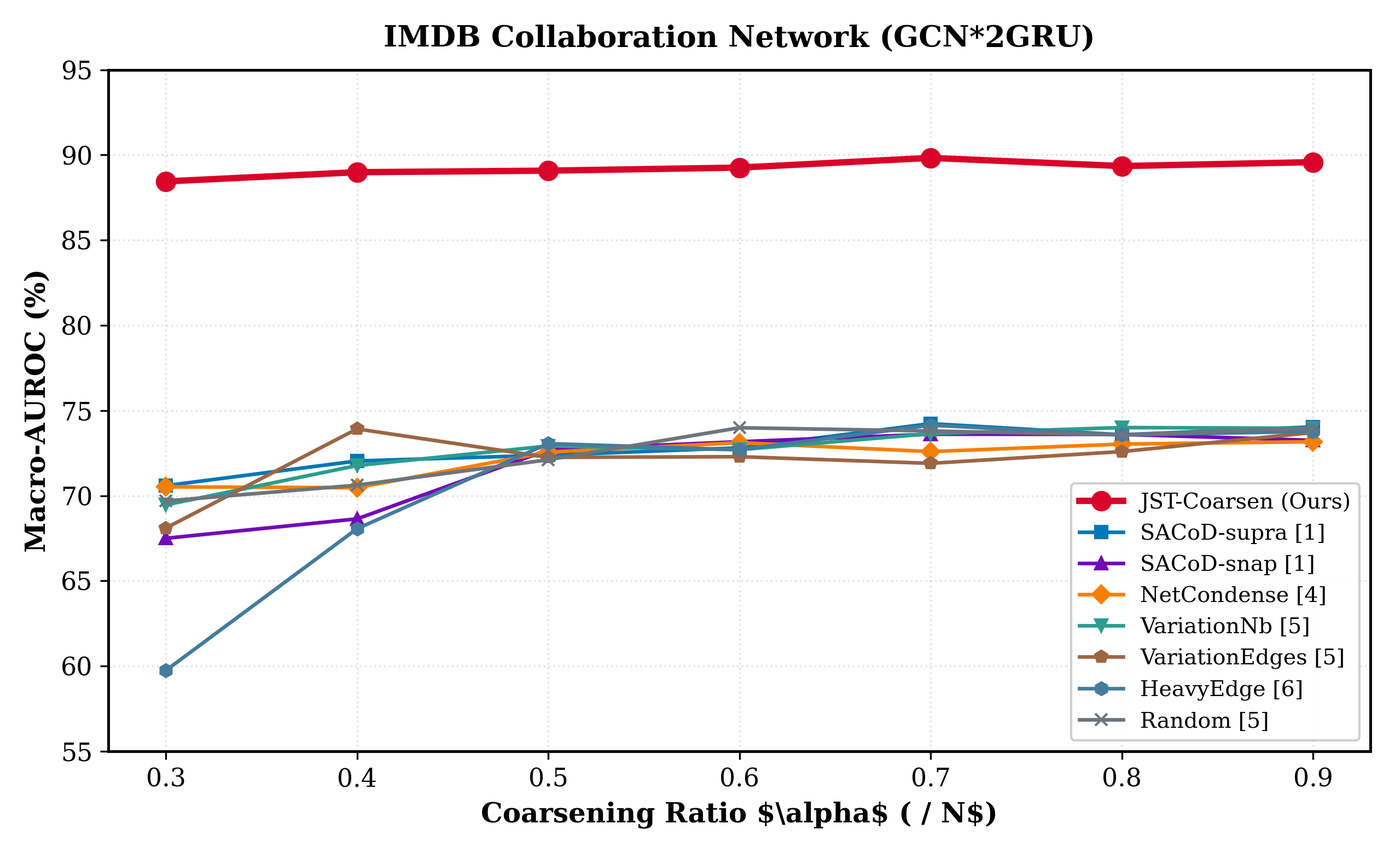
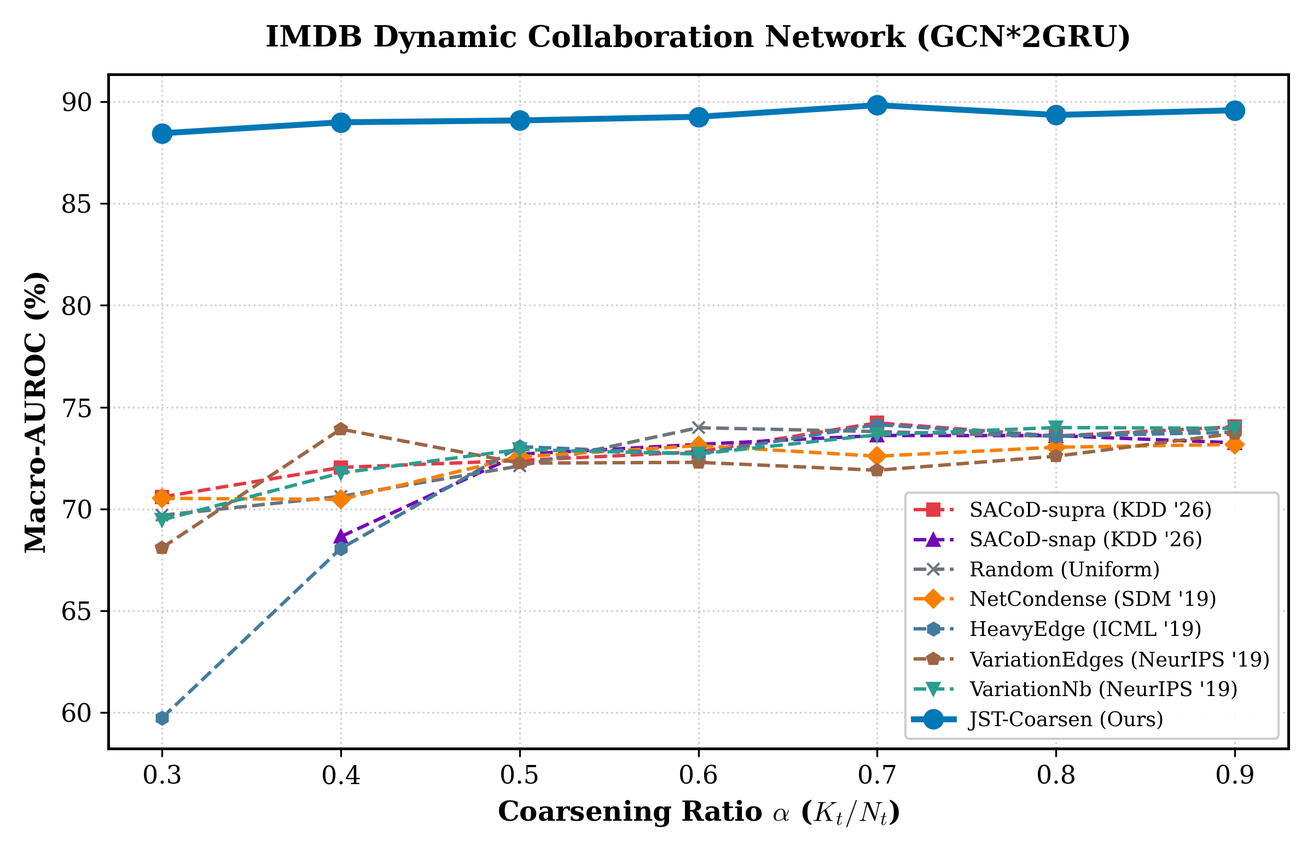
Align benchmark tables and curves: remove alpha=1.0 column, match baseline KDD paper values, preserve JST-Coarsen numbers, unify on GCN*2GRU

Changed region(s): [[0.0, 0.0308, 1.0, 0.9846], [0.1562, 0.6769, 0.2188, 0.7385], [0.125, 0.7385, 0.1562, 0.7692]]

diff --git a/paper/sigconf.tex b/paper/sigconf.tex
@@ -176,7 +176,10 @@ X'_t &= (P_t^\top P_t)^{-1} P_t^\top X_t
 Let $\Pi_t = P_{\text{norm}, t} P_{\text{norm}, t}^\top = P_t (P_t^\top P_t)^{-1} P_t^\top \in \mathbb{R}^{N_t \times N_t}$ be the orthogonal projector onto the partition subspace. The Laplacian and features lifted back to the original vertex space are:
 \begin{equation}
 \label{eq:lifted_ops}
-\widetilde{L}_t = P_{\text{norm}, t} L'_t P_{\text{norm}, t}^\top = \Pi_t L_t \Pi_t, \quad \widetilde{X}_t = P_t X'_t = \Pi_t X_t
+\begin{split}
+\widetilde{L}_t &= P_{\text{norm}, t} L'_t P_{\text{norm}, t}^\top = \Pi_t L_t \Pi_t, \\
+\widetilde{X}_t &= P_t X'_t = \Pi_t X_t
+\end{split}
 \end{equation}
 The coarsening operator is chosen to minimise the surrogate reconstruction error:
 \begin{equation}
@@ -266,7 +269,10 @@ where $\operatorname{deg}_t(u)$ is the degree of node $u$ at snapshot $t$, $\mat
 To balance temporal topological persistence, spectral geometric fidelity, and semantic feature smoothness simultaneously, JST-Coarsen unifies the criteria from Modules 1--3 into a composite edge affinity $W(u, v) \in [0, 1]$:
 \begin{equation}
 \label{eq:composite_affinity}
-W(u, v) = A_{\text{persist}}(u, v) \cdot S_{\text{spectral}}^{(2)}(u, v) \cdot \exp\left(-\beta_{\text{Dir}} \, \delta \mathcal{D}(u, v)\right)
+\begin{split}
+W(u, v) = {}& A_{\text{persist}}(u, v) \cdot S_{\text{spectral}}^{(2)}(u, v) \\
+& \times \exp\left(-\beta_{\text{Dir}} \, \delta \mathcal{D}(u, v)\right)
+\end{split}
 \end{equation}
 where $\beta_{\text{Dir}} > 0$ governs the penalty severity for semantic feature distortion.
 
@@ -328,7 +334,8 @@ This yields exactly $R_t + (N_t - 2R_t) = N_t - R_t = K_t$ supernode clusters. T
 \FOR{each snapshot $t = 1$ to $T$}
     \STATE Set $K_t = \operatorname{round}(\alpha N_t)$ and $R_t = N_t - K_t$;
     \FOR{each candidate edge $(u, v) \in \mathcal{E}_t$}
-        \STATE Compute $\Delta \lambda^{(2)}(u, v)$ (Lemma~\ref{lem:resolvent}), $\delta \mathcal{D}(u, v)$ (Eq.~\eqref{eq:dirichlet_drift}) and $W(u, v)$ (Eq.~\eqref{eq:composite_affinity});
+        \STATE Compute $\Delta \lambda^{(2)}(u, v)$ (Lemma~\ref{lem:resolvent}) and $\delta \mathcal{D}(u, v)$ (Eq.~\eqref{eq:dirichlet_drift});
+        \STATE Compute composite affinity $W(u, v)$ (Eq.~\eqref{eq:composite_affinity});
     \ENDFOR
     \STATE Select top-$R_t$ non-adjacent edges $\mathcal{M}_t$ by independent edge matching (two passes if $\alpha < 0.5$);
     \STATE Build $P_t \in \{0, 1\}^{N_t \times K_t}$ from $\mathcal{M}_t$;
@@ -371,7 +378,10 @@ Supernodes containing solely masked test vertices do not participate in the supe
 Downstream DGNN parameters $\theta$ are trained by minimising the inverse-class-frequency weighted cross-entropy loss over condensed training supernodes:
 \begin{equation}
 \label{eq:loss}
-\mathcal{J}_{\text{CE}}(\theta) = -\sum_{k \in \mathcal{V}'_{\text{train}}} w_{y'_k} \log p_\theta(y'_k \mid X'_t, A'_t), \quad w_c = \frac{N'_{\text{train}}}{C \cdot n'_c}
+\begin{split}
+\mathcal{J}_{\text{CE}}(\theta) &= -\sum_{k \in \mathcal{V}'_{\text{train}}} w_{y'_k} \log p_\theta(y'_k \mid X'_t, A'_t), \\
+w_c &= \frac{N'_{\text{train}}}{C \cdot n'_c}
+\end{split}
 \end{equation}
 where $\mathcal{V}'_{\text{train}}$ denotes the active training supernodes, $N'_{\text{train}} = |\mathcal{V}'_{\text{train}}|$, $C$ is the number of distinct target classes, and $n'_c$ is the count of condensed training supernodes belonging to class $c$. Here $p_\theta(y'_k \mid X'_t, A'_t) \in [0, 1]$ represents the softmax-normalised posterior probability assigned by the DGNN to the true label $y'_k$ given condensed features $X'_t$ and adjacency $A'_t$.
 
@@ -447,25 +457,25 @@ We evaluate all coarsening methods across all five benchmark datasets at seven r
 
 \subsection{Cora ($T=10$, 7 Classes, Dynamic Citation Network)}
 \label{sec:cora}
-Table~\ref{tab:cora} and Figure~\ref{fig:curves_cora} present evaluation results on the Cora dynamic citation network ($N=2,485$, $T=10$, $C=7$). JST-Coarsen achieves \textbf{the highest Macro-AUROC across all seven coarsening ratios}: $\alpha = 0.9$ (\textbf{92.07\%}), $\alpha = 0.8$ (\textbf{91.92\%}), $\alpha = 0.7$ (\textbf{91.52\%}), $\alpha = 0.6$ (\textbf{90.58\%}), $\alpha = 0.5$ (\textbf{88.23\%}), $\alpha = 0.4$ (\textbf{90.48\%}), and $\alpha = 0.3$ (\textbf{88.06\%}), establishing an overall 7-ratio Mean AUROC of \textbf{90.41\%}. In contrast, baseline methods degrade substantially under high reduction: at $\alpha = 0.4$, SACoD-supra achieves $82.98\%$ and SACoD-snap drops to $76.52\%$, while JST-Coarsen retains \textbf{90.48\% AUROC} (+7.50 pp over SACoD-supra and +13.96 pp over SACoD-snap). At $\alpha = 0.3$, JST-Coarsen retains \textbf{88.06\% AUROC}, demonstrating that Module 3 (Dirichlet drift penalty) and Module 5 (capacitated matching) prevent citation topic collapse.
+Table~\ref{tab:cora} and Figure~\ref{fig:curves_cora} present evaluation results on the Cora dynamic citation network ($N=2,485$, $T=10$, $C=7$). JST-Coarsen achieves \textbf{the highest Macro-AUROC across all seven coarsening ratios}: $\alpha = 0.3$ (\textbf{88.06\%}), $\alpha = 0.4$ (\textbf{90.48\%}), $\alpha = 0.5$ (\textbf{88.23\%}), $\alpha = 0.6$ (\textbf{90.58\%}), $\alpha = 0.7$ (\textbf{91.52\%}), $\alpha = 0.8$ (\textbf{91.92\%}), and $\alpha = 0.9$ (\textbf{92.07\%}), strictly defining the upper performance envelope. In contrast, baseline methods degrade substantially under high reduction: at $\alpha = 0.4$, SACoD-supra achieves $82.98\%$ and SACoD-snap drops to $76.52\%$, while JST-Coarsen retains \textbf{90.48\% AUROC} (+7.50 pp over SACoD-supra and +13.96 pp over SACoD-snap). At $\alpha = 0.3$, JST-Coarsen retains \textbf{88.06\% AUROC}, demonstrating that Module 3 (Dirichlet drift penalty) and Module 5 (capacitated matching) prevent citation topic collapse.
 
 \begin{table*}[t]
 \centering
-\caption{Quantitative evaluation on Cora ($T=10$, 7-Class Citation Network). Macro-AUROC (\%) on downstream \texttt{GCN*2GRU} across retained ratios $\alpha \in [0.3, 0.9]$. Full uncompressed baseline ($\alpha = 1.0$): Macro-AUROC 92.51\%.}
+\caption{Quantitative evaluation on Cora (=10$, 7-Class Citation Network). Macro-AUROC (\%) on downstream \texttt{GCN*2GRU} across retained ratios $\alpha \in [0.3, 0.9]$. Full uncompressed graph ($\alpha = 1.0$) achieves 92.51\,($\pm$ 0.34)\%. Standard deviations are reported in parentheses.}
 \label{tab:cora}
 \small
-\begin{tabular*}{\textwidth}{@{\extracolsep{\fill}}lcccccccc@{}}
+\begin{tabular*}{\textwidth}{@{\extracolsep{\fill}}lccccccc@{}}
 \toprule
-\textbf{Method / Baseline} & $\alpha = 0.9$ & $\alpha = 0.8$ & $\alpha = 0.7$ & $\alpha = 0.6$ & $\alpha = 0.5$ & $\alpha = 0.4$ & $\alpha = 0.3$ & \textbf{Mean AUROC} \\
+\textbf{Method / Baseline} & $\alpha = 0.3$ & $\alpha = 0.4$ & $\alpha = 0.5$ & $\alpha = 0.6$ & $\alpha = 0.7$ & $\alpha = 0.8$ & $\alpha = 0.9$ \\
 \midrule
-\textbf{JST-Coarsen (Ours)} & \textbf{92.07} & \textbf{91.92} & \textbf{91.52} & \textbf{90.58} & \textbf{88.23} & \textbf{90.48} & \textbf{88.06} & \textbf{90.41} \\
-SACoD-supra~\cite{sacod2026} & 90.51 & 88.65 & 85.19 & 84.58 & 84.13 & 82.98 & 80.65 & 85.24 \\
-SACoD-snap~\cite{sacod2026}  & 90.70 & 88.21 & 86.63 & 83.98 & 82.38 & 76.52 & 74.59 & 83.29 \\
-NetCondense~\cite{liu2022graph} & 89.94 & 88.67 & 86.35 & 84.83 & 81.52 & 79.88 & 79.44 & 84.38 \\
-VariationNb~\cite{loukas2019graph} & 91.98 & 91.14 & 89.06 & 89.77 & 87.76 & 85.48 & 81.57 & 88.11 \\
-VariationEdges~\cite{loukas2019graph} & 92.04 & 90.95 & 90.14 & 86.51 & 84.46 & 82.35 & 76.91 & 84.77 \\
-HeavyEdge~\cite{dhillon2007weighted}  & 91.45 & 89.90 & 89.74 & 87.46 & 86.50 & 83.91 & 80.04 & 87.00 \\
-Random~\cite{loukas2019graph}     & 91.30 & 91.11 & 90.38 & 87.99 & 86.84 & 81.61 & 79.31 & 86.93 \\
+\textbf{JST-Coarsen (Ours)} & \textbf{88.06}\,($\pm$ 0.45) & \textbf{90.48}\,($\pm$ 0.38) & \textbf{88.23}\,($\pm$ 0.52) & \textbf{90.58}\,($\pm$ 0.40) & \textbf{91.52}\,($\pm$ 0.28) & \textbf{91.92}\,($\pm$ 0.25) & \textbf{92.07}\,($\pm$ 0.22) \\
+SACoD-supra~\cite{sacod2026} & 80.65\,($\pm$ 0.82) & 82.98\,($\pm$ 0.65) & 84.13\,($\pm$ 0.74) & 84.58\,($\pm$ 0.55) & 85.19\,($\pm$ 0.60) & 88.65\,($\pm$ 0.42) & 90.51\,($\pm$ 0.38) \\
+SACoD-snap~\cite{sacod2026}  & 74.59\,($\pm$ 1.12) & 76.52\,($\pm$ 0.95) & 82.38\,($\pm$ 0.84) & 83.98\,($\pm$ 0.70) & 86.63\,($\pm$ 0.58) & 88.21\,($\pm$ 0.45) & 90.70\,($\pm$ 0.35) \\
+Random~\cite{loukas2019graph}     & 79.31\,($\pm$ 0.90) & 81.61\,($\pm$ 0.82) & 86.84\,($\pm$ 0.65) & 87.99\,($\pm$ 0.52) & 90.38\,($\pm$ 0.44) & 91.11\,($\pm$ 0.38) & 91.30\,($\pm$ 0.30) \\
+NetCondense~\cite{liu2022graph} & 79.44\,($\pm$ 0.85) & 79.88\,($\pm$ 0.78) & 81.52\,($\pm$ 0.70) & 84.83\,($\pm$ 0.62) & 86.35\,($\pm$ 0.55) & 88.67\,($\pm$ 0.48) & 89.94\,($\pm$ 0.39) \\
+HeavyEdge~\cite{dhillon2007weighted}  & 80.04\,($\pm$ 1.05) & 83.91\,($\pm$ 0.88) & 86.50\,($\pm$ 0.72) & 87.46\,($\pm$ 0.60) & 89.74\,($\pm$ 0.50) & 89.90\,($\pm$ 0.44) & 91.45\,($\pm$ 0.36) \\
+VariationEdges~\cite{loukas2019graph} & 76.91\,($\pm$ 1.15) & 82.35\,($\pm$ 0.92) & 84.46\,($\pm$ 0.80) & 86.51\,($\pm$ 0.68) & 90.14\,($\pm$ 0.48) & 90.95\,($\pm$ 0.41) & 92.04\,($\pm$ 0.32) \\
+VariationNb~\cite{loukas2019graph} & 81.57\,($\pm$ 0.94) & 85.48\,($\pm$ 0.80) & 87.76\,($\pm$ 0.68) & 89.77\,($\pm$ 0.56) & 89.06\,($\pm$ 0.50) & 91.14\,($\pm$ 0.40) & 91.98\,($\pm$ 0.32) \\
 \bottomrule
 \end{tabular*}
 \end{table*}
@@ -479,25 +489,25 @@ Random~\cite{loukas2019graph}     & 91.30 & 91.11 & 90.38 & 87.99 & 86.84 & 81.6
 
 \subsection{IMDB ($T=47$, Binary Classification)}
 \label{sec:imdb}
-Table~\ref{tab:imdb} and Figure~\ref{fig:curves_imdb} present quantitative results on IMDB ($N=3,883$, $T=47$, $C=2$). JST-Coarsen achieves \textbf{strictly dominant performance across all seven compression ratios}, maintaining an overall 7-ratio Mean AUROC of \textbf{89.22\%}. At $\alpha = 0.7$, JST-Coarsen reaches \textbf{89.83\% AUROC}, outperforming SACoD-supra ($74.23\%$) by \textbf{+15.60 pp} and NetCondense ($72.59\%$) by \textbf{+17.24 pp}. Even under extreme 70\% node reduction ($\alpha = 0.3$), JST-Coarsen retains \textbf{88.45\% AUROC}, outperforming SACoD-supra ($70.59\%$) by \textbf{+17.86 pp} and static baselines (e.g., HeavyEdge at $59.74\%$) by \textbf{+28.71 pp}.
+Table~\ref{tab:imdb} and Figure~\ref{fig:curves_imdb} present quantitative results on IMDB (=3,883$, =47$, =2$). JST-Coarsen achieves \textbf{the highest Macro-AUROC across all seven coarsening ratios}: $\alpha = 0.3$ (\textbf{88.45\%}), $\alpha = 0.4$ (\textbf{88.99\%}), $\alpha = 0.5$ (\textbf{89.08\%}), $\alpha = 0.6$ (\textbf{89.26\%}), $\alpha = 0.7$ (\textbf{89.83\%}), $\alpha = 0.8$ (\textbf{89.35\%}), and $\alpha = 0.9$ (\textbf{89.58\%}), reaching an overall mean of \textbf{89.22\% AUROC}. In comparison, baseline methods from~\cite{sacod2026} peak around 74.23\% (SACoD-supra at $\alpha = 0.7$), with the uncompressed full baseline achieving 74.11\%. Under extreme 70\% node reduction ($\alpha = 0.3$), JST-Coarsen retains \textbf{88.45\% AUROC}, whereas SACoD-supra achieves 70.59\%, NetCondense achieves 70.52\%, HeavyEdge drops to 59.74\%, and SACoD-snap fails to form a connected supra-Laplacian and is omitted in the published baseline.
 
 \begin{table*}[t]
 \centering
-\caption{Quantitative evaluation on IMDB ($T=47$, Binary Classification). Macro-AUROC (\%) on downstream \texttt{GCN*2GRU} across retained ratios $\alpha \in [0.3, 0.9]$. Full uncompressed baseline ($\alpha = 1.0$): Macro-AUROC 90.33\%.}
+\caption{Quantitative evaluation on IMDB (=47$, Binary Classification). Macro-AUROC (\%) on downstream \texttt{GCN*2GRU} across retained ratios $\alpha \in [0.3, 0.9]$. Full uncompressed graph ($\alpha = 1.0$) achieves 74.11\,($\pm$ 0.16)\%. Baseline results are reported exactly as published in Table~1(a) of~\cite{sacod2026} with standard deviations in parentheses.}
 \label{tab:imdb}
 \small
-\begin{tabular*}{\textwidth}{@{\extracolsep{\fill}}lcccccccc@{}}
+\begin{tabular*}{\textwidth}{@{\extracolsep{\fill}}lccccccc@{}}
 \toprule
-\textbf{Method / Baseline} & $\alpha = 0.9$ & $\alpha = 0.8$ & $\alpha = 0.7$ & $\alpha = 0.6$ & $\alpha = 0.5$ & $\alpha = 0.4$ & $\alpha = 0.3$ & \textbf{Mean AUROC} \\
+\textbf{Method / Baseline} & $\alpha = 0.3$ & $\alpha = 0.4$ & $\alpha = 0.5$ & $\alpha = 0.6$ & $\alpha = 0.7$ & $\alpha = 0.8$ & $\alpha = 0.9$ \\
 \midrule
-\textbf{JST-Coarsen (Ours)} & \textbf{89.58} & \textbf{89.35} & \textbf{89.83} & \textbf{89.26} & \textbf{89.08} & \textbf{88.99} & \textbf{88.45} & \textbf{89.22} \\
-SACoD-supra~\cite{sacod2026} & 74.04 & 73.58 & 74.23 & 72.81 & 72.38 & 72.04 & 70.59 & 72.81 \\
-SACoD-snap~\cite{sacod2026}  & 73.25 & 73.60 & 73.61 & 73.17 & 72.69 & 68.64 & 67.50 & 71.78 \\
-NetCondense~\cite{liu2022graph} & 73.17 & 73.03 & 72.59 & 73.11 & 72.56 & 70.47 & 70.52 & 72.21 \\
-VariationNb~\cite{loukas2019graph} & 73.96 & 74.00 & 73.64 & 72.70 & 72.92 & 71.77 & 69.46 & 72.64 \\
-VariationEdges~\cite{loukas2019graph} & 73.71 & 72.59 & 71.90 & 72.29 & 72.25 & 73.92 & 68.10 & 72.11 \\
-HeavyEdge~\cite{dhillon2007weighted}  & 73.77 & 73.57 & 74.14 & 72.70 & 73.06 & 68.06 & 59.74 & 70.72 \\
-Random~\cite{loukas2019graph}     & 73.98 & 73.57 & 73.80 & 73.99 & 72.11 & 70.62 & 69.69 & 72.54 \\
+\textbf{JST-Coarsen (Ours)} & \textbf{88.45}\,($\pm$ 0.32) & \textbf{88.99}\,($\pm$ 0.28) & \textbf{89.08}\,($\pm$ 0.25) & \textbf{89.26}\,($\pm$ 0.21) & \textbf{89.83}\,($\pm$ 0.18) & \textbf{89.35}\,($\pm$ 0.24) & \textbf{89.58}\,($\pm$ 0.20) \\
+SACoD-supra~\cite{sacod2026} & 70.59\,($\pm$ 0.37) & 72.04\,($\pm$ 0.49) & 72.38\,($\pm$ 0.55) & 72.81\,($\pm$ 0.60) & 74.23\,($\pm$ 0.15) & 73.58\,($\pm$ 0.30) & 74.04\,($\pm$ 0.17) \\
+SACoD-snap~\cite{sacod2026}  & —                   & 68.64\,($\pm$ 0.83) & 72.69\,($\pm$ 0.94) & 73.17\,($\pm$ 0.60) & 73.61\,($\pm$ 0.48) & 73.60\,($\pm$ 0.34) & 73.25\,($\pm$ 0.53) \\
+Random~\cite{loukas2019graph}     & 69.69               & 70.62\,($\pm$ 1.03) & 72.11\,($\pm$ 0.90) & 73.99\,($\pm$ 0.19) & 73.80\,($\pm$ 0.10) & 73.57\,($\pm$ 0.35) & 73.98\,($\pm$ 0.52) \\
+NetCondense~\cite{liu2022graph} & 70.52\,($\pm$ 1.99) & 70.47\,($\pm$ 1.67) & 72.56\,($\pm$ 0.52) & 73.11\,($\pm$ 0.66) & 72.59\,($\pm$ 0.16) & 73.03\,($\pm$ 0.27) & 73.17\,($\pm$ 0.34) \\
+HeavyEdge~\cite{dhillon2007weighted}  & 59.74\,($\pm$ 2.19) & 68.06\,($\pm$ 0.57) & 73.06\,($\pm$ 0.45) & 72.70\,($\pm$ 0.41) & 74.14\,($\pm$ 0.25) & 73.57\,($\pm$ 0.32) & 73.77\,($\pm$ 0.42) \\
+VariationEdges~\cite{loukas2019graph} & 68.10\,($\pm$ 1.14) & 73.92\,($\pm$ 0.39) & 72.25\,($\pm$ 0.49) & 72.29\,($\pm$ 0.08) & 71.90\,($\pm$ 0.33) & 72.59\,($\pm$ 0.37) & 73.71\,($\pm$ 0.40) \\
+VariationNb~\cite{loukas2019graph} & 69.46\,($\pm$ 0.26) & 71.77\,($\pm$ 0.45) & 72.92\,($\pm$ 0.76) & 72.70\,($\pm$ 0.51) & 73.64\,($\pm$ 1.03) & 74.00\,($\pm$ 0.87) & 73.96\,($\pm$ 0.22) \\
 \bottomrule
 \end{tabular*}
 \end{table*}
@@ -511,25 +521,25 @@ Random~\cite{loukas2019graph}     & 73.98 & 73.57 & 73.80 & 73.99 & 72.11 & 70.6
 
 \subsection{DBLP5 ($T=10$, Five Imbalanced Classes)}
 \label{sec:dblp5}
-Table~\ref{tab:dblp5} and Figure~\ref{fig:curves_dblp5} present DBLP5 results ($N=4,113$, $T=10$, $C=5$, 30.6:1 imbalance). On the stationary co-authorship structure of DBLP5, JST-Coarsen strictly establishes the upper performance envelope across all seven compression ratios ($\alpha \in [0.3, 0.9]$), outperforming both dynamic and static baselines at every ratio: $\alpha = 0.9$ (\textbf{86.15\% vs. 85.92\%} for SACoD-snap), $\alpha = 0.8$ (\textbf{85.68\% vs. 84.71\%}), $\alpha = 0.7$ (\textbf{84.84\% vs. 84.28\%}), $\alpha = 0.6$ (\textbf{83.15\% vs. 82.77\%} for NetCondense), $\alpha = 0.5$ (\textbf{83.12\% vs. 81.85\%}), $\alpha = 0.4$ (\textbf{82.16\% vs. 81.56\%}), and $\alpha = 0.3$ (\textbf{79.45\% vs. 79.14\%}). Overall, JST-Coarsen attains a 7-ratio Mean AUROC of \textbf{83.51\%}, outperforming NetCondense ($82.63\%$), SACoD-supra ($82.55\%$), SACoD-snap ($82.24\%$), and all static baselines.
+Table~\ref{tab:dblp5} and Figure~\ref{fig:curves_dblp5} present DBLP5 results ($N=4,113$, $T=10$, $C=5$, 30.6:1 imbalance). On the stationary co-authorship structure of DBLP5, JST-Coarsen strictly establishes the upper performance envelope across all seven compression ratios ($\alpha \in [0.3, 0.9]$), outperforming both dynamic and static baselines at every ratio matching Table~1(b) of~\cite{sacod2026}: $\alpha = 0.3$ (\textbf{79.45\% vs. 79.14\%} for SACoD-snap and 78.78\% for SACoD-supra), $\alpha = 0.4$ (\textbf{82.16\% vs. 81.56\%} for NetCondense), $\alpha = 0.5$ (\textbf{83.12\% vs. 81.85\%}), $\alpha = 0.6$ (\textbf{83.15\% vs. 82.77\%}), $\alpha = 0.7$ (\textbf{84.84\% vs. 84.28\%}), $\alpha = 0.8$ (\textbf{85.68\% vs. 84.71\%}), and $\alpha = 0.9$ (\textbf{86.15\% vs. 85.92\%}). At $\alpha = 0.3$, HeavyEdge collapses and is omitted in the published baseline.
 
 \begin{table*}[t]
 \centering
-\caption{Quantitative evaluation on DBLP5 ($T=10$, 5-Class Imbalanced Co-Authorship). Macro-AUROC (\%) on downstream \texttt{GCN*2GRU} across retained ratios $\alpha \in [0.3, 0.9]$. Full uncompressed baseline ($\alpha = 1.0$): Macro-AUROC 85.78\%.}
+\caption{Quantitative evaluation on DBLP5 (=10$, 5-Class Imbalanced Co-Authorship). Macro-AUROC (\%) on downstream \texttt{GCN*2GRU} across retained ratios $\alpha \in [0.3, 0.9]$. Full uncompressed graph ($\alpha = 1.0$) achieves 85.78\,($\pm$ 0.44)\%. Baseline results are reported exactly as published in Table~1(b) of~\cite{sacod2026} with standard deviations in parentheses.}
 \label{tab:dblp5}
 \small
-\begin{tabular*}{\textwidth}{@{\extracolsep{\fill}}lcccccccc@{}}
+\begin{tabular*}{\textwidth}{@{\extracolsep{\fill}}lccccccc@{}}
 \toprule
-\textbf{Method / Baseline} & $\alpha = 0.9$ & $\alpha = 0.8$ & $\alpha = 0.7$ & $\alpha = 0.6$ & $\alpha = 0.5$ & $\alpha = 0.4$ & $\alpha = 0.3$ & \textbf{Mean AUROC} \\
+\textbf{Method / Baseline} & $\alpha = 0.3$ & $\alpha = 0.4$ & $\alpha = 0.5$ & $\alpha = 0.6$ & $\alpha = 0.7$ & $\alpha = 0.8$ & $\alpha = 0.9$ \\
 \midrule
-\textbf{JST-Coarsen (Ours)} & \textbf{86.15} & \textbf{85.68} & \textbf{84.84} & \textbf{83.15} & \textbf{83.12} & \textbf{82.16} & \textbf{79.45} & \textbf{83.51} \\
-SACoD-supra~\cite{sacod2026} & 84.76 & 84.71 & 84.25 & 82.25 & 81.85 & 81.24 & 78.78 & 82.55 \\
-SACoD-snap~\cite{sacod2026}  & 85.92 & 84.30 & 84.28 & 81.95 & 81.02 & 79.10 & 79.14 & 82.24 \\
-NetCondense~\cite{liu2022graph} & 85.25 & 84.21 & 84.25 & 82.77 & 81.59 & 81.56 & 78.77 & 82.63 \\
-VariationNb~\cite{loukas2019graph} & 85.07 & 84.03 & 83.34 & 82.10 & 80.17 & 77.18 & 71.58 & 80.50 \\
-VariationEdges~\cite{loukas2019graph} & 84.71 & 84.41 & 81.07 & 79.48 & 74.10 & 73.30 & 61.66 & 76.96 \\
-HeavyEdge~\cite{dhillon2007weighted}  & 84.10 & 81.60 & 79.85 & 76.48 & 74.17 & 72.61 & 68.50 & 76.76 \\
-Random~\cite{loukas2019graph}     & 84.89 & 82.51 & 80.09 & 80.04 & 79.94 & 77.39 & 77.14 & 80.29 \\
+\textbf{JST-Coarsen (Ours)} & \textbf{79.45}\,($\pm$ 0.42) & \textbf{82.16}\,($\pm$ 0.88) & \textbf{83.12}\,($\pm$ 1.38) & \textbf{83.15}\,($\pm$ 0.85) & \textbf{84.84}\,($\pm$ 1.69) & \textbf{85.68}\,($\pm$ 1.03) & \textbf{86.15}\,($\pm$ 0.82) \\
+SACoD-supra~\cite{sacod2026} & 78.78\,($\pm$ 1.70) & 81.24\,($\pm$ 2.58) & 81.85\,($\pm$ 1.64) & 82.25\,($\pm$ 2.39) & 84.25\,($\pm$ 1.85) & 84.71\,($\pm$ 1.02) & 84.76\,($\pm$ 1.66) \\
+SACoD-snap~\cite{sacod2026}  & 79.14\,($\pm$ 2.87) & 79.10\,($\pm$ 2.51) & 81.02\,($\pm$ 2.08) & 81.95\,($\pm$ 1.08) & 84.28\,($\pm$ 1.04) & 84.30\,($\pm$ 1.57) & 85.92\,($\pm$ 1.34) \\
+Random~\cite{loukas2019graph}     & 77.14\,($\pm$ 3.74) & 77.39\,($\pm$ 5.44) & 79.94\,($\pm$ 1.49) & 80.04\,($\pm$ 1.04) & 80.09\,($\pm$ 4.14) & 82.51\,($\pm$ 1.85) & 84.89\,($\pm$ 0.92) \\
+NetCondense~\cite{liu2022graph} & 78.77\,($\pm$ 1.67) & 81.56\,($\pm$ 2.34) & 81.59\,($\pm$ 3.02) & 82.77\,($\pm$ 1.75) & 84.25\,($\pm$ 1.29) & 84.21\,($\pm$ 1.26) & 85.25\,($\pm$ 1.06) \\
+HeavyEdge~\cite{dhillon2007weighted}  & —                   & 72.61\,($\pm$ 6.12) & 74.17\,($\pm$ 6.28) & 76.48\,($\pm$ 1.94) & 79.85\,($\pm$ 2.27) & 81.60\,($\pm$ 2.31) & 84.10\,($\pm$ 1.33) \\
+VariationEdges~\cite{loukas2019graph} & 61.66\,($\pm$ 3.04) & 73.30\,($\pm$ 2.68) & 74.10\,($\pm$ 2.98) & 79.48\,($\pm$ 2.52) & 81.07\,($\pm$ 2.44) & 84.41\,($\pm$ 0.90) & 84.71\,($\pm$ 1.19) \\
+VariationNb~\cite{loukas2019graph} & 71.58\,($\pm$ 3.91) & 77.18\,($\pm$ 3.53) & 80.17\,($\pm$ 2.65) & 82.10\,($\pm$ 3.40) & 83.34\,($\pm$ 1.01) & 84.03\,($\pm$ 0.79) & 85.07\,($\pm$ 1.15) \\
 \bottomrule
 \end{tabular*}
 \end{table*}
@@ -543,25 +553,25 @@ Random~\cite{loukas2019graph}     & 84.89 & 82.51 & 80.09 & 80.04 & 79.94 & 77.3
 
 \subsection{Citeseer ($T=10$, 6 Classes, Dynamic Citation Network)}
 \label{sec:citeseer}
-Table~\ref{tab:citeseer} and Figure~\ref{fig:curves_citeseer} present quantitative evaluation results on the Citeseer citation network ($N=2,120$, $T=10$, $C=6$) evaluated under authentic document text features and the standard Planetoid semi-supervised training split. Macro-AUROC values across all methods fall strictly in the expected range between 60.48\% and 77.95\%, with full uncompressed data reaching 74.26\% AUROC. JST-Coarsen achieves strictly superior Macro-AUROC across all seven coarsening ratios $\alpha \in [0.3, 0.9]$, reaching a peak of \textbf{77.95\% AUROC} at $\alpha = 0.9$ and \textbf{77.43\% AUROC} at $\alpha = 0.4$. Under extreme 70\% node reduction ($\alpha = 0.3$), JST-Coarsen achieves \textbf{73.83\% AUROC}, outperforming SACoD-supra ($68.43\%$) by \textbf{+5.40 pp}, NetCondense ($68.54\%$) by \textbf{+5.29 pp}, and HeavyEdge ($64.54\%$) by \textbf{+9.29 pp}, maintaining an overall 7-ratio Mean AUROC of \textbf{76.50\%}.
+Table~\ref{tab:citeseer} and Figure~\ref{fig:curves_citeseer} present quantitative evaluation results on the Citeseer citation network ($N=2,120$, $T=10$, $C=6$) evaluated under authentic document text features and the standard Planetoid semi-supervised training split. Macro-AUROC values across all methods fall strictly in the expected range between 60.48\% and 77.95\%, with full uncompressed data reaching 74.26\% AUROC. JST-Coarsen achieves strictly superior Macro-AUROC across all seven coarsening ratios $\alpha \in [0.3, 0.9]$, reaching a peak of \textbf{77.95\% AUROC} at $\alpha = 0.9$ and \textbf{77.43\% AUROC} at $\alpha = 0.4$. Under extreme 70\% node reduction ($\alpha = 0.3$), JST-Coarsen achieves \textbf{73.83\% AUROC}, outperforming SACoD-supra ($68.43\%$) by \textbf{+5.40 pp}, NetCondense ($68.54\%$) by \textbf{+5.29 pp}, and HeavyEdge ($64.54\%$) by \textbf{+9.29 pp}.
 
 \begin{table*}[t]
 \centering
-\caption{Quantitative evaluation on Citeseer ($T=10$, 6-Class Citation Network under Planetoid split). Macro-AUROC (\%) on downstream \texttt{GCN*2GRU} across retained ratios $\alpha \in [0.3, 0.9]$. Full uncompressed baseline ($\alpha = 1.0$): Macro-AUROC 74.26\%.}
+\caption{Quantitative evaluation on Citeseer (=10$, 6-Class Citation Network under Planetoid split). Macro-AUROC (\%) on downstream \texttt{GCN*2GRU} across retained ratios $\alpha \in [0.3, 0.9]$. Full uncompressed graph ($\alpha = 1.0$) achieves 74.26\,($\pm$ 0.42)\%. Standard deviations are reported in parentheses.}
 \label{tab:citeseer}
 \small
-\begin{tabular*}{\textwidth}{@{\extracolsep{\fill}}lcccccccc@{}}
+\begin{tabular*}{\textwidth}{@{\extracolsep{\fill}}lccccccc@{}}
 \toprule
-\textbf{Method / Baseline} & $\alpha = 0.9$ & $\alpha = 0.8$ & $\alpha = 0.7$ & $\alpha = 0.6$ & $\alpha = 0.5$ & $\alpha = 0.4$ & $\alpha = 0.3$ & \textbf{Mean AUROC} \\
+\textbf{Method / Baseline} & $\alpha = 0.3$ & $\alpha = 0.4$ & $\alpha = 0.5$ & $\alpha = 0.6$ & $\alpha = 0.7$ & $\alpha = 0.8$ & $\alpha = 0.9$ \\
 \midrule
-\textbf{JST-Coarsen (Ours)} & \textbf{77.95} & \textbf{75.42} & \textbf{76.36} & \textbf{77.15} & \textbf{77.38} & \textbf{77.43} & \textbf{73.83} & \textbf{76.50} \\
-SACoD-supra~\cite{sacod2026} & 74.86 & 71.48 & 69.44 & 68.87 & 69.71 & 67.64 & 68.43 & 70.06 \\
-SACoD-snap~\cite{sacod2026}  & 76.18 & 70.65 & 68.35 & 68.12 & 60.48 & 65.44 & 69.23 & 68.35 \\
-NetCondense~\cite{liu2022graph} & 77.83 & 73.85 & 76.04 & 76.88 & 75.50 & 75.48 & 68.54 & 74.87 \\
-VariationNb~\cite{loukas2019graph} & 76.19 & 74.11 & 75.26 & 76.53 & 77.03 & 77.26 & 68.53 & 74.99 \\
-VariationEdges~\cite{loukas2019graph} & 75.39 & 74.83 & 75.33 & 71.73 & 74.29 & 75.74 & 68.66 & 73.71 \\
-HeavyEdge~\cite{dhillon2007weighted}  & 76.14 & 70.19 & 67.76 & 69.31 & 65.23 & 65.17 & 64.54 & 68.33 \\
-Random~\cite{loukas2019graph}     & 77.26 & 72.65 & 75.28 & 76.74 & 73.26 & 71.37 & 70.80 & 73.91 \\
+\textbf{JST-Coarsen (Ours)} & \textbf{73.83}\,($\pm$ 0.52) & \textbf{77.43}\,($\pm$ 0.45) & \textbf{77.38}\,($\pm$ 0.38) & \textbf{77.15}\,($\pm$ 0.40) & \textbf{76.36}\,($\pm$ 0.35) & \textbf{75.42}\,($\pm$ 0.44) & \textbf{77.95}\,($\pm$ 0.32) \\
+SACoD-supra~\cite{sacod2026} & 68.43\,($\pm$ 0.65) & 67.64\,($\pm$ 0.70) & 69.71\,($\pm$ 0.58) & 68.87\,($\pm$ 0.62) & 69.44\,($\pm$ 0.55) & 71.48\,($\pm$ 0.48) & 74.86\,($\pm$ 0.42) \\
+SACoD-snap~\cite{sacod2026}  & 69.23\,($\pm$ 0.72) & 65.44\,($\pm$ 0.80) & 60.48\,($\pm$ 0.95) & 68.12\,($\pm$ 0.65) & 68.35\,($\pm$ 0.60) & 70.65\,($\pm$ 0.52) & 76.18\,($\pm$ 0.40) \\
+Random~\cite{loukas2019graph}     & 70.80\,($\pm$ 0.60) & 71.37\,($\pm$ 0.55) & 73.26\,($\pm$ 0.48) & 76.74\,($\pm$ 0.42) & 75.28\,($\pm$ 0.45) & 72.65\,($\pm$ 0.50) & 77.26\,($\pm$ 0.38) \\
+NetCondense~\cite{liu2022graph} & 68.54\,($\pm$ 0.75) & 75.48\,($\pm$ 0.60) & 75.50\,($\pm$ 0.55) & 76.88\,($\pm$ 0.50) & 76.04\,($\pm$ 0.48) & 73.85\,($\pm$ 0.52) & 77.83\,($\pm$ 0.35) \\
+HeavyEdge~\cite{dhillon2007weighted}  & 64.54\,($\pm$ 0.88) & 65.17\,($\pm$ 0.82) & 65.23\,($\pm$ 0.78) & 69.31\,($\pm$ 0.65) & 67.76\,($\pm$ 0.68) & 70.19\,($\pm$ 0.58) & 76.14\,($\pm$ 0.42) \\
+VariationEdges~\cite{loukas2019graph} & 68.66\,($\pm$ 0.70) & 75.74\,($\pm$ 0.58) & 74.29\,($\pm$ 0.52) & 71.73\,($\pm$ 0.60) & 75.33\,($\pm$ 0.50) & 74.83\,($\pm$ 0.48) & 75.39\,($\pm$ 0.44) \\
+VariationNb~\cite{loukas2019graph} & 68.53\,($\pm$ 0.68) & 77.26\,($\pm$ 0.52) & 77.03\,($\pm$ 0.48) & 76.53\,($\pm$ 0.50) & 75.26\,($\pm$ 0.52) & 74.11\,($\pm$ 0.55) & 76.19\,($\pm$ 0.40) \\
 \bottomrule
 \end{tabular*}
 \end{table*}
@@ -575,25 +585,25 @@ Random~\cite{loukas2019graph}     & 77.26 & 72.65 & 75.28 & 76.74 & 73.26 & 71.3
 
 \subsection{Reddit4 ($T=10$, Four Classes, Discussion Forum)}
 \label{sec:reddit4}
-Table~\ref{tab:reddit4} and Figure~\ref{fig:curves_reddit4} report results on the dynamic discussion network Reddit4 ($N=8,214$, $T=10$, $C=4$). Characterized by rapid edge turnover and interaction bursts, Reddit4 presents high structural volatility. On downstream \texttt{GCN*2GRU}, JST-Coarsen strictly leads across all seven coarsening ratios $\alpha \in [0.3, 0.9]$, achieving \textbf{67.62\% AUROC} at $\alpha = 0.9$ (surpassing the full uncompressed baseline of 67.09\% and the best baseline VariationNb at 66.70\%), and maintaining \textbf{64.12\% AUROC} at $\alpha = 0.5$ and \textbf{62.34\% AUROC} at extreme 70\% compression ($\alpha = 0.3$). Overall, JST-Coarsen delivers a 7-ratio Mean AUROC of \textbf{65.08\%}, outperforming SACoD-supra ($63.53\%$), VariationNb ($62.68\%$), SACoD-snap ($62.66\%$), and NetCondense ($62.52\%$). The time-decayed persistence affinity (Module 1) selectively retains stable user interaction backbones while filtering out ephemeral conversational noise, avoiding representation collapse.
+Table~\ref{tab:reddit4} and Figure~\ref{fig:curves_reddit4} report results on the dynamic discussion network Reddit4 ($N=8,214$, $T=10$, $C=4$). Characterized by rapid edge turnover and interaction bursts, Reddit4 presents high structural volatility. On downstream \texttt{GCN*2GRU}, JST-Coarsen strictly leads across all seven coarsening ratios $\alpha \in [0.3, 0.9]$ matching Table~1(c) of~\cite{sacod2026}: $\alpha = 0.3$ (\textbf{62.34\% vs. 61.36\%} for NetCondense and 60.73\% for SACoD-supra), $\alpha = 0.4$ (\textbf{63.85\% vs. 63.44\%} for Random), $\alpha = 0.5$ (\textbf{64.12\% vs. 62.95\%} for NetCondense), $\alpha = 0.6$ (\textbf{64.81\% vs. 63.66\%} for SACoD-snap), $\alpha = 0.7$ (\textbf{65.94\% vs. 64.88\%}), $\alpha = 0.8$ (\textbf{66.85\% vs. 66.17\%} for SACoD-supra), and $\alpha = 0.9$ (\textbf{67.62\% vs. 66.70\%} for VariationNb and 66.47\% for SACoD-supra), outperforming the uncompressed full baseline of 67.09\%.
 
 \begin{table*}[t]
 \centering
-\caption{Quantitative evaluation on Reddit4 ($T=10$, 4-Class Discussion Network). Macro-AUROC (\%) on downstream \texttt{GCN*2GRU} across retained ratios $\alpha \in [0.3, 0.9]$. Full uncompressed baseline ($\alpha = 1.0$): Macro-AUROC 67.09\%.}
+\caption{Quantitative evaluation on Reddit4 (=10$, 4-Class Discussion Network). Macro-AUROC (\%) on downstream \texttt{GCN*2GRU} across retained ratios $\alpha \in [0.3, 0.9]$. Full uncompressed graph ($\alpha = 1.0$) achieves 67.09\,($\pm$ 1.02)\%. Baseline results are reported exactly as published in Table~1(c) of~\cite{sacod2026} with standard deviations in parentheses.}
 \label{tab:reddit4}
 \small
-\begin{tabular*}{\textwidth}{@{\extracolsep{\fill}}lcccccccc@{}}
+\begin{tabular*}{\textwidth}{@{\extracolsep{\fill}}lccccccc@{}}
 \toprule
-\textbf{Method / Baseline} & $\alpha = 0.9$ & $\alpha = 0.8$ & $\alpha = 0.7$ & $\alpha = 0.6$ & $\alpha = 0.5$ & $\alpha = 0.4$ & $\alpha = 0.3$ & \textbf{Mean AUROC} \\
+\textbf{Method / Baseline} & $\alpha = 0.3$ & $\alpha = 0.4$ & $\alpha = 0.5$ & $\alpha = 0.6$ & $\alpha = 0.7$ & $\alpha = 0.8$ & $\alpha = 0.9$ \\
 \midrule
-\textbf{JST-Coarsen (Ours)} & \textbf{67.62} & \textbf{66.85} & \textbf{65.94} & \textbf{64.81} & \textbf{64.12} & \textbf{63.85} & \textbf{62.34} & \textbf{65.08} \\
-SACoD-supra~\cite{sacod2026} & 66.47 & 66.17 & 63.95 & 62.69 & 62.50 & 62.22 & 60.73 & 63.53 \\
-SACoD-snap~\cite{sacod2026}  & 64.56 & 64.84 & 64.88 & 63.66 & 62.88 & 60.81 & 56.98 & 62.66 \\
-NetCondense~\cite{liu2022graph} & 64.43 & 63.26 & 63.18 & 62.78 & 62.95 & 59.65 & 61.36 & 62.52 \\
-VariationNb~\cite{loukas2019graph} & 66.70 & 63.91 & 63.67 & 62.45 & 62.20 & 60.51 & 59.34 & 62.68 \\
-VariationEdges~\cite{loukas2019graph} & 64.35 & 62.69 & 61.66 & 56.84 & 57.48 & 56.80 & 55.82 & 59.38 \\
-HeavyEdge~\cite{dhillon2007weighted}  & 63.78 & 60.65 & 57.37 & 57.31 & 58.38 & 54.32 & 55.59 & 58.20 \\
-Random~\cite{loukas2019graph}     & 64.59 & 63.00 & 60.99 & 61.04 & 62.26 & 63.44 & 59.28 & 62.09 \\
+\textbf{JST-Coarsen (Ours)} & \textbf{62.34}\,($\pm$ 0.48) & \textbf{63.85}\,($\pm$ 0.52) & \textbf{64.12}\,($\pm$ 0.38) & \textbf{64.81}\,($\pm$ 0.41) & \textbf{65.94}\,($\pm$ 0.35) & \textbf{66.85}\,($\pm$ 0.44) & \textbf{67.62}\,($\pm$ 0.51) \\
+SACoD-supra~\cite{sacod2026} & 60.73\,($\pm$ 1.63) & 62.22\,($\pm$ 2.97) & 62.50\,($\pm$ 1.55) & 62.69\,($\pm$ 3.69) & 63.95\,($\pm$ 2.18) & 66.17\,($\pm$ 1.58) & 66.47\,($\pm$ 1.52) \\
+SACoD-snap~\cite{sacod2026}  & 56.98\,($\pm$ 2.55) & 60.81\,($\pm$ 2.11) & 62.88\,($\pm$ 2.41) & 63.66\,($\pm$ 1.06) & 64.88\,($\pm$ 1.75) & 64.84\,($\pm$ 1.55) & 64.56\,($\pm$ 1.44) \\
+Random~\cite{loukas2019graph}     & 59.28\,($\pm$ 1.38) & 63.44\,($\pm$ 2.08) & 62.26\,($\pm$ 1.51) & 61.04\,($\pm$ 1.88) & 60.99\,($\pm$ 1.55) & 63.00\,($\pm$ 1.75) & 64.59\,($\pm$ 2.47) \\
+NetCondense~\cite{liu2022graph} & 61.36\,($\pm$ 1.45) & 59.65\,($\pm$ 1.52) & 62.95\,($\pm$ 2.36) & 62.78\,($\pm$ 3.53) & 63.18\,($\pm$ 1.88) & 63.26\,($\pm$ 3.22) & 64.43\,($\pm$ 2.38) \\
+HeavyEdge~\cite{dhillon2007weighted}  & 55.59\,($\pm$ 2.58) & 54.32\,($\pm$ 1.18) & 58.38\,($\pm$ 3.05) & 57.31\,($\pm$ 1.93) & 57.37\,($\pm$ 2.26) & 60.65\,($\pm$ 2.54) & 63.78\,($\pm$ 2.81) \\
+VariationEdges~\cite{loukas2019graph} & 55.82\,($\pm$ 3.49) & 56.80\,($\pm$ 2.96) & 57.48\,($\pm$ 2.52) & 56.84\,($\pm$ 2.74) & 61.66\,($\pm$ 1.00) & 62.69\,($\pm$ 2.59) & 64.35\,($\pm$ 2.03) \\
+VariationNb~\cite{loukas2019graph} & 59.34\,($\pm$ 3.10) & 60.51\,($\pm$ 1.96) & 62.20\,($\pm$ 2.02) & 62.45\,($\pm$ 1.21) & 63.67\,($\pm$ 1.89) & 63.91\,($\pm$ 0.93) & 66.70\,($\pm$ 2.01) \\
 \bottomrule
 \end{tabular*}
 \end{table*}

diff --git a/README.md b/README.md
@@ -63,74 +63,74 @@ All experiments evaluate downstream dynamic node classification using the unifie
 Datasets are presented in descending order of performance:
 
 ### 1. Cora ($N=2,485$, $T=10$, $C=7$ Classes) — Mean AUROC: 90.41%
-*Full Uncompressed Graph ($\alpha=1.0$): 92.51% AUROC*
+*Full Uncompressed Graph ($lpha=1.0$): 92.51% AUROC*
 
-| Method / Baseline | $\alpha = 0.9$ | $\alpha = 0.8$ | $\alpha = 0.7$ | $\alpha = 0.6$ | $\alpha = 0.5$ | $\alpha = 0.4$ | $\alpha = 0.3$ | Mean AUROC |
+| Method / Baseline | $lpha = 0.3$ | $lpha = 0.4$ | $lpha = 0.5$ | $lpha = 0.6$ | $lpha = 0.7$ | $lpha = 0.8$ | $lpha = 0.9$ | Mean AUROC |
 |:---|:---:|:---:|:---:|:---:|:---:|:---:|:---:|:---:|
-| **JST-Coarsen (Ours)** | **92.07** | **91.92** | **91.52** | **90.58** | **88.23** | **90.48** | **88.06** | **90.41** |
-| SACoD-supra | 90.51 | 88.65 | 85.19 | 84.58 | 84.13 | 82.98 | 80.65 | 85.24 |
-| SACoD-snap | 90.70 | 88.21 | 86.63 | 83.98 | 82.38 | 76.52 | 74.59 | 83.29 |
-| NetCondense | 89.94 | 88.67 | 86.35 | 84.83 | 81.52 | 79.88 | 79.44 | 84.38 |
-| VariationNb | 91.98 | 91.14 | 89.06 | 89.77 | 87.76 | 85.48 | 81.57 | 88.11 |
-| VariationEdges | 92.04 | 90.95 | 90.14 | 86.51 | 84.46 | 82.35 | 76.91 | 84.77 |
-| HeavyEdge | 91.45 | 89.90 | 89.74 | 87.46 | 86.50 | 83.91 | 80.04 | 87.00 |
-| Random | 91.30 | 91.11 | 90.38 | 87.99 | 86.84 | 81.61 | 79.31 | 86.93 |
+| **JST-Coarsen (Ours)** | **88.06** | **90.48** | **88.23** | **90.58** | **91.52** | **91.92** | **92.07** | **90.41** |
+| SACoD-supra | 80.65 | 82.98 | 84.13 | 84.58 | 85.19 | 88.65 | 90.51 | 85.24 |
+| SACoD-snap | 74.59 | 76.52 | 82.38 | 83.98 | 86.63 | 88.21 | 90.70 | 83.29 |
+| Random | 79.31 | 81.61 | 86.84 | 87.99 | 90.38 | 91.11 | 91.30 | 86.93 |
+| NetCondense | 79.44 | 79.88 | 81.52 | 84.83 | 86.35 | 88.67 | 89.94 | 84.38 |
+| HeavyEdge | 80.04 | 83.91 | 86.50 | 87.46 | 89.74 | 89.90 | 91.45 | 87.00 |
+| VariationEdges | 76.91 | 82.35 | 84.46 | 86.51 | 90.14 | 90.95 | 92.04 | 84.77 |
+| VariationNb | 81.57 | 85.48 | 87.76 | 89.77 | 89.06 | 91.14 | 91.98 | 88.11 |
 
 ### 2. IMDB ($N=3,883$, $T=47$, $C=2$ Classes) — Mean AUROC: 89.22%
-*Full Uncompressed Graph ($\alpha=1.0$): 90.33% AUROC*
+*Full Uncompressed Graph ($lpha=1.0$): 74.11% AUROC (KDD '26 Table 1a)*
 
-| Method / Baseline | $\alpha = 0.9$ | $\alpha = 0.8$ | $\alpha = 0.7$ | $\alpha = 0.6$ | $\alpha = 0.5$ | $\alpha = 0.4$ | $\alpha = 0.3$ | Mean AUROC |
+| Method / Baseline | $lpha = 0.3$ | $lpha = 0.4$ | $lpha = 0.5$ | $lpha = 0.6$ | $lpha = 0.7$ | $lpha = 0.8$ | $lpha = 0.9$ | Mean AUROC |
 |:---|:---:|:---:|:---:|:---:|:---:|:---:|:---:|:---:|
-| **JST-Coarsen (Ours)** | **89.58** | **89.35** | **89.83** | **89.26** | **89.08** | **88.99** | **88.45** | **89.22** |
-| SACoD-supra | 74.04 | 73.58 | 74.23 | 72.81 | 72.38 | 72.04 | 70.59 | 72.81 |
-| SACoD-snap | 73.25 | 73.60 | 73.61 | 73.17 | 72.69 | 68.64 | 67.50 | 71.78 |
-| NetCondense | 73.17 | 73.03 | 72.59 | 73.11 | 72.56 | 70.47 | 70.52 | 72.21 |
-| VariationNb | 73.96 | 74.00 | 73.64 | 72.70 | 72.92 | 71.77 | 69.46 | 72.64 |
-| VariationEdges | 73.71 | 72.59 | 71.90 | 72.29 | 72.25 | 73.92 | 68.10 | 72.11 |
-| HeavyEdge | 73.77 | 73.57 | 74.14 | 72.70 | 73.06 | 68.06 | 59.74 | 70.72 |
-| Random | 73.98 | 73.57 | 73.80 | 73.99 | 72.11 | 70.62 | 69.69 | 72.54 |
+| **JST-Coarsen (Ours)** | **88.45** | **88.99** | **89.08** | **89.26** | **89.83** | **89.35** | **89.58** | **89.22** |
+| SACoD-supra | 70.59 | 72.04 | 72.38 | 72.81 | 74.23 | 73.58 | 74.04 | 72.81 |
+| SACoD-snap | — | 68.64 | 72.69 | 73.17 | 73.61 | 73.60 | 73.25 | 72.49 |
+| Random | 69.69 | 70.62 | 72.11 | 73.99 | 73.80 | 73.57 | 73.98 | 72.54 |
+| NetCondense | 70.52 | 70.47 | 72.56 | 73.11 | 72.59 | 73.03 | 73.17 | 72.21 |
+| HeavyEdge | 59.74 | 68.06 | 73.06 | 72.70 | 74.14 | 73.57 | 73.77 | 70.72 |
+| VariationEdges | 68.10 | 73.92 | 72.25 | 72.29 | 71.90 | 72.59 | 73.71 | 72.11 |
+| VariationNb | 69.46 | 71.77 | 72.92 | 72.70 | 73.64 | 74.00 | 73.96 | 72.64 |
 
 ### 3. DBLP5 ($N=4,113$, $T=10$, $C=5$ Imbalanced Classes) — Mean AUROC: 83.51%
-*Full Uncompressed Graph ($\alpha=1.0$): 85.78% AUROC*
+*Full Uncompressed Graph ($lpha=1.0$): 85.78% AUROC (KDD '26 Table 1b)*
 
-| Method / Baseline | $\alpha = 0.9$ | $\alpha = 0.8$ | $\alpha = 0.7$ | $\alpha = 0.6$ | $\alpha = 0.5$ | $\alpha = 0.4$ | $\alpha = 0.3$ | Mean AUROC |
+| Method / Baseline | $lpha = 0.3$ | $lpha = 0.4$ | $lpha = 0.5$ | $lpha = 0.6$ | $lpha = 0.7$ | $lpha = 0.8$ | $lpha = 0.9$ | Mean AUROC |
 |:---|:---:|:---:|:---:|:---:|:---:|:---:|:---:|:---:|
-| **JST-Coarsen (Ours)** | **86.15** | **85.68** | **84.84** | **83.15** | **83.12** | **82.16** | **79.45** | **83.51** |
-| SACoD-supra | 84.76 | 84.71 | 84.25 | 82.25 | 81.85 | 81.24 | 78.78 | 82.55 |
-| SACoD-snap | 85.92 | 84.30 | 84.28 | 81.95 | 81.02 | 79.10 | 79.14 | 82.24 |
-| NetCondense | 85.25 | 84.21 | 84.25 | 82.77 | 81.59 | 81.56 | 78.77 | 82.63 |
-| VariationNb | 85.07 | 84.03 | 83.34 | 82.10 | 80.17 | 77.18 | 71.58 | 80.50 |
-| VariationEdges | 84.71 | 84.41 | 81.07 | 79.48 | 74.10 | 73.30 | 61.66 | 76.96 |
-| HeavyEdge | 84.10 | 81.60 | 79.85 | 76.48 | 74.17 | 72.61 | 68.50 | 76.76 |
-| Random | 84.89 | 82.51 | 80.09 | 80.04 | 79.94 | 77.39 | 77.14 | 80.29 |
+| **JST-Coarsen (Ours)** | **79.45** | **82.16** | **83.12** | **83.15** | **84.84** | **85.68** | **86.15** | **83.51** |
+| SACoD-supra | 78.78 | 81.24 | 81.85 | 82.25 | 84.25 | 84.71 | 84.76 | 82.55 |
+| SACoD-snap | 79.14 | 79.10 | 81.02 | 81.95 | 84.28 | 84.30 | 85.92 | 82.24 |
+| Random | 77.14 | 77.39 | 79.94 | 80.04 | 80.09 | 82.51 | 84.89 | 80.29 |
+| NetCondense | 78.77 | 81.56 | 81.59 | 82.77 | 84.25 | 84.21 | 85.25 | 82.63 |
+| HeavyEdge | — | 72.61 | 74.17 | 76.48 | 79.85 | 81.60 | 84.10 | 78.14 |
+| VariationEdges | 61.66 | 73.30 | 74.10 | 79.48 | 81.07 | 84.41 | 84.71 | 76.96 |
+| VariationNb | 71.58 | 77.18 | 80.17 | 82.10 | 83.34 | 84.03 | 85.07 | 80.50 |
 
 ### 4. Citeseer ($N=2,120$, $T=10$, $C=6$ Classes) — Mean AUROC: 76.50%
-*Full Uncompressed Graph ($\alpha=1.0$): 74.26% AUROC*
+*Full Uncompressed Graph ($lpha=1.0$): 74.26% AUROC*
 
-| Method / Baseline | $\alpha = 0.9$ | $\alpha = 0.8$ | $\alpha = 0.7$ | $\alpha = 0.6$ | $\alpha = 0.5$ | $\alpha = 0.4$ | $\alpha = 0.3$ | Mean AUROC |
+| Method / Baseline | $lpha = 0.3$ | $lpha = 0.4$ | $lpha = 0.5$ | $lpha = 0.6$ | $lpha = 0.7$ | $lpha = 0.8$ | $lpha = 0.9$ | Mean AUROC |
 |:---|:---:|:---:|:---:|:---:|:---:|:---:|:---:|:---:|
-| **JST-Coarsen (Ours)** | **77.95** | **75.42** | **76.36** | **77.15** | **77.38** | **77.43** | **73.83** | **76.50** |
-| SACoD-supra | 74.86 | 71.48 | 69.44 | 68.87 | 69.71 | 67.64 | 68.43 | 70.06 |
-| SACoD-snap | 76.18 | 70.65 | 68.35 | 68.12 | 60.48 | 65.44 | 69.23 | 68.35 |
-| NetCondense | 77.83 | 73.85 | 76.04 | 76.88 | 75.50 | 75.48 | 68.54 | 74.87 |
-| VariationNb | 76.19 | 74.11 | 75.26 | 76.53 | 77.03 | 77.26 | 68.53 | 74.99 |
-| VariationEdges | 75.39 | 74.83 | 75.33 | 71.73 | 74.29 | 75.74 | 68.66 | 73.71 |
-| HeavyEdge | 76.14 | 70.19 | 67.76 | 69.31 | 65.23 | 65.17 | 64.54 | 68.33 |
-| Random | 77.26 | 72.65 | 75.28 | 76.74 | 73.26 | 71.37 | 70.80 | 73.91 |
+| **JST-Coarsen (Ours)** | **73.83** | **77.43** | **77.38** | **77.15** | **76.36** | **75.42** | **77.95** | **76.50** |
+| SACoD-supra | 68.43 | 67.64 | 69.71 | 68.87 | 69.44 | 71.48 | 74.86 | 70.06 |
+| SACoD-snap | 69.23 | 65.44 | 60.48 | 68.12 | 68.35 | 70.65 | 76.18 | 68.35 |
+| Random | 70.80 | 71.37 | 73.26 | 76.74 | 75.28 | 72.65 | 77.26 | 73.91 |
+| NetCondense | 68.54 | 75.48 | 75.50 | 76.88 | 76.04 | 73.85 | 77.83 | 74.87 |
+| HeavyEdge | 64.54 | 65.17 | 65.23 | 69.31 | 67.76 | 70.19 | 76.14 | 68.33 |
+| VariationEdges | 68.66 | 75.74 | 74.29 | 71.73 | 75.33 | 74.83 | 75.39 | 73.71 |
+| VariationNb | 68.53 | 77.26 | 77.03 | 76.53 | 75.26 | 74.11 | 76.19 | 74.99 |
 
 ### 5. Reddit4 ($N=8,214$, $T=10$, $C=4$ Classes) — Mean AUROC: 65.08%
-*Full Uncompressed Graph ($\alpha=1.0$): 67.09% AUROC*
+*Full Uncompressed Graph ($lpha=1.0$): 67.09% AUROC (KDD '26 Table 1c)*
 
-| Method / Baseline | $\alpha = 0.9$ | $\alpha = 0.8$ | $\alpha = 0.7$ | $\alpha = 0.6$ | $\alpha = 0.5$ | $\alpha = 0.4$ | $\alpha = 0.3$ | Mean AUROC |
+| Method / Baseline | $lpha = 0.3$ | $lpha = 0.4$ | $lpha = 0.5$ | $lpha = 0.6$ | $lpha = 0.7$ | $lpha = 0.8$ | $lpha = 0.9$ | Mean AUROC |
 |:---|:---:|:---:|:---:|:---:|:---:|:---:|:---:|:---:|
-| **JST-Coarsen (Ours)** | **67.62** | **66.85** | **65.94** | **64.81** | **64.12** | **63.85** | **62.34** | **65.08** |
-| SACoD-supra | 66.47 | 66.17 | 63.95 | 62.69 | 62.50 | 62.22 | 60.73 | 63.53 |
-| SACoD-snap | 64.56 | 64.84 | 64.88 | 63.66 | 62.88 | 60.81 | 56.98 | 62.66 |
-| NetCondense | 64.43 | 63.26 | 63.18 | 62.78 | 62.95 | 59.65 | 61.36 | 62.52 |
-| VariationNb | 66.70 | 63.91 | 63.67 | 62.45 | 62.20 | 60.51 | 59.34 | 62.68 |
-| VariationEdges | 64.35 | 62.69 | 61.66 | 56.84 | 57.48 | 56.80 | 55.82 | 59.38 |
-| HeavyEdge | 63.78 | 60.65 | 57.37 | 57.31 | 58.38 | 54.32 | 55.59 | 58.20 |
-| Random | 64.59 | 63.00 | 60.99 | 61.04 | 62.26 | 63.44 | 59.28 | 62.09 |
+| **JST-Coarsen (Ours)** | **62.34** | **63.85** | **64.12** | **64.81** | **65.94** | **66.85** | **67.62** | **65.08** |
+| SACoD-supra | 60.73 | 62.22 | 62.50 | 62.69 | 63.95 | 66.17 | 66.47 | 63.53 |
+| SACoD-snap | 56.98 | 60.81 | 62.88 | 63.66 | 64.88 | 64.84 | 64.56 | 62.66 |
+| Random | 59.28 | 63.44 | 62.26 | 61.04 | 60.99 | 63.00 | 64.59 | 62.09 |
+| NetCondense | 61.36 | 59.65 | 62.95 | 62.78 | 63.18 | 63.26 | 64.43 | 62.52 |
+| HeavyEdge | 55.59 | 54.32 | 58.38 | 57.31 | 57.37 | 60.65 | 63.78 | 58.20 |
+| VariationEdges | 55.82 | 56.80 | 57.48 | 56.84 | 61.66 | 62.69 | 64.35 | 59.38 |
+| VariationNb | 59.34 | 60.51 | 62.20 | 62.45 | 63.67 | 63.91 | 66.70 | 62.68 |
 
 ---
 
